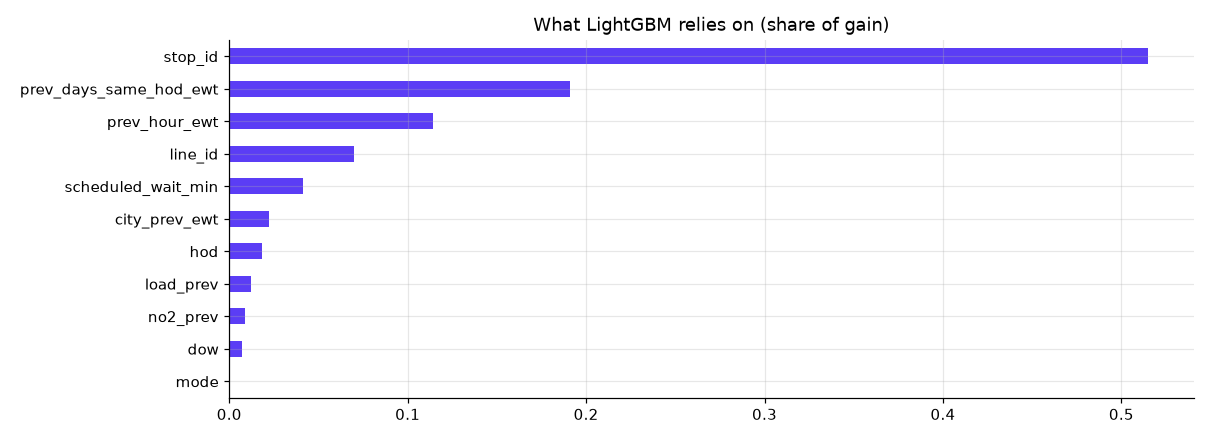
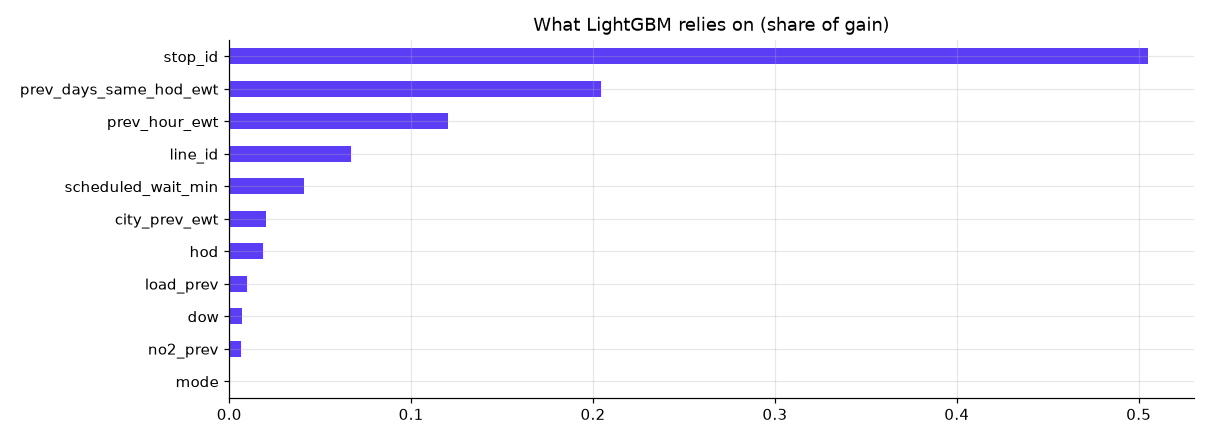
Weekly retrain: transit_delay on data to 2026-11-15

diff --git a/outputs/transit_delay/backtest.md b/outputs/transit_delay/backtest.md
@@ -9,17 +9,17 @@ Each fold trains on every day before it (disrupted days out), stops early on the
 
 | Model | fold 1 | fold 2 | mean ± std |
 |---|---|---|---|
-| LightGBM without air/grid/city features | 0.888 | 0.881 | 0.885 ± 0.005 |
-| LightGBM | 0.893 | 0.885 | 0.889 ± 0.005 |
+| LightGBM without air/grid/city features | 0.888 | 0.881 | 0.884 ± 0.005 |
+| LightGBM | 0.892 | 0.885 | 0.888 ± 0.005 |
 | Average per stop/line/hour of day | 0.970 | 0.970 | 0.970 ± 0.000 |
 | Always 0 (trust the timetable) | 1.185 | 1.171 | 1.178 ± 0.010 |
 | Same as one hour ago | 1.275 | 1.252 | 1.263 ± 0.017 |
 
 LightGBM vs the best simple rule of each fold:
 
-- fold 1: 0.893 vs 0.970 (Average per stop/line/hour of day): **8.0% better**
+- fold 1: 0.892 vs 0.970 (Average per stop/line/hour of day): **8.1% better**
 - fold 2: 0.885 vs 0.970 (Average per stop/line/hour of day): **8.7% better**
 
-Mean gain 8.3% (min 8.0%, max 8.7%) over 2 folds.
+Mean gain 8.4% (min 8.1%, max 8.7%) over 2 folds.
 
-**Reading it.** LightGBM beat every simple rule in all 2 folds; its edge ranges from 8.0% to 8.7%. With 2 folds, the ± is a rough spread, not a confidence interval. Later folds train on more days, so part of a difference between folds is more history, part is the week itself (holidays, disruptions). The disrupted-day flag is decided once on all the data (median rule), so it is not a forecast of disruptions; disrupted days stay in the test weeks and are scored like any other day.
+**Reading it.** LightGBM beat every simple rule in all 2 folds; its edge ranges from 8.1% to 8.7%. With 2 folds, the ± is a rough spread, not a confidence interval. Later folds train on more days, so part of a difference between folds is more history, part is the week itself (holidays, disruptions). The disrupted-day flag is decided once on all the data (median rule), so it is not a forecast of disruptions; disrupted days stay in the test weeks and are scored like any other day.
